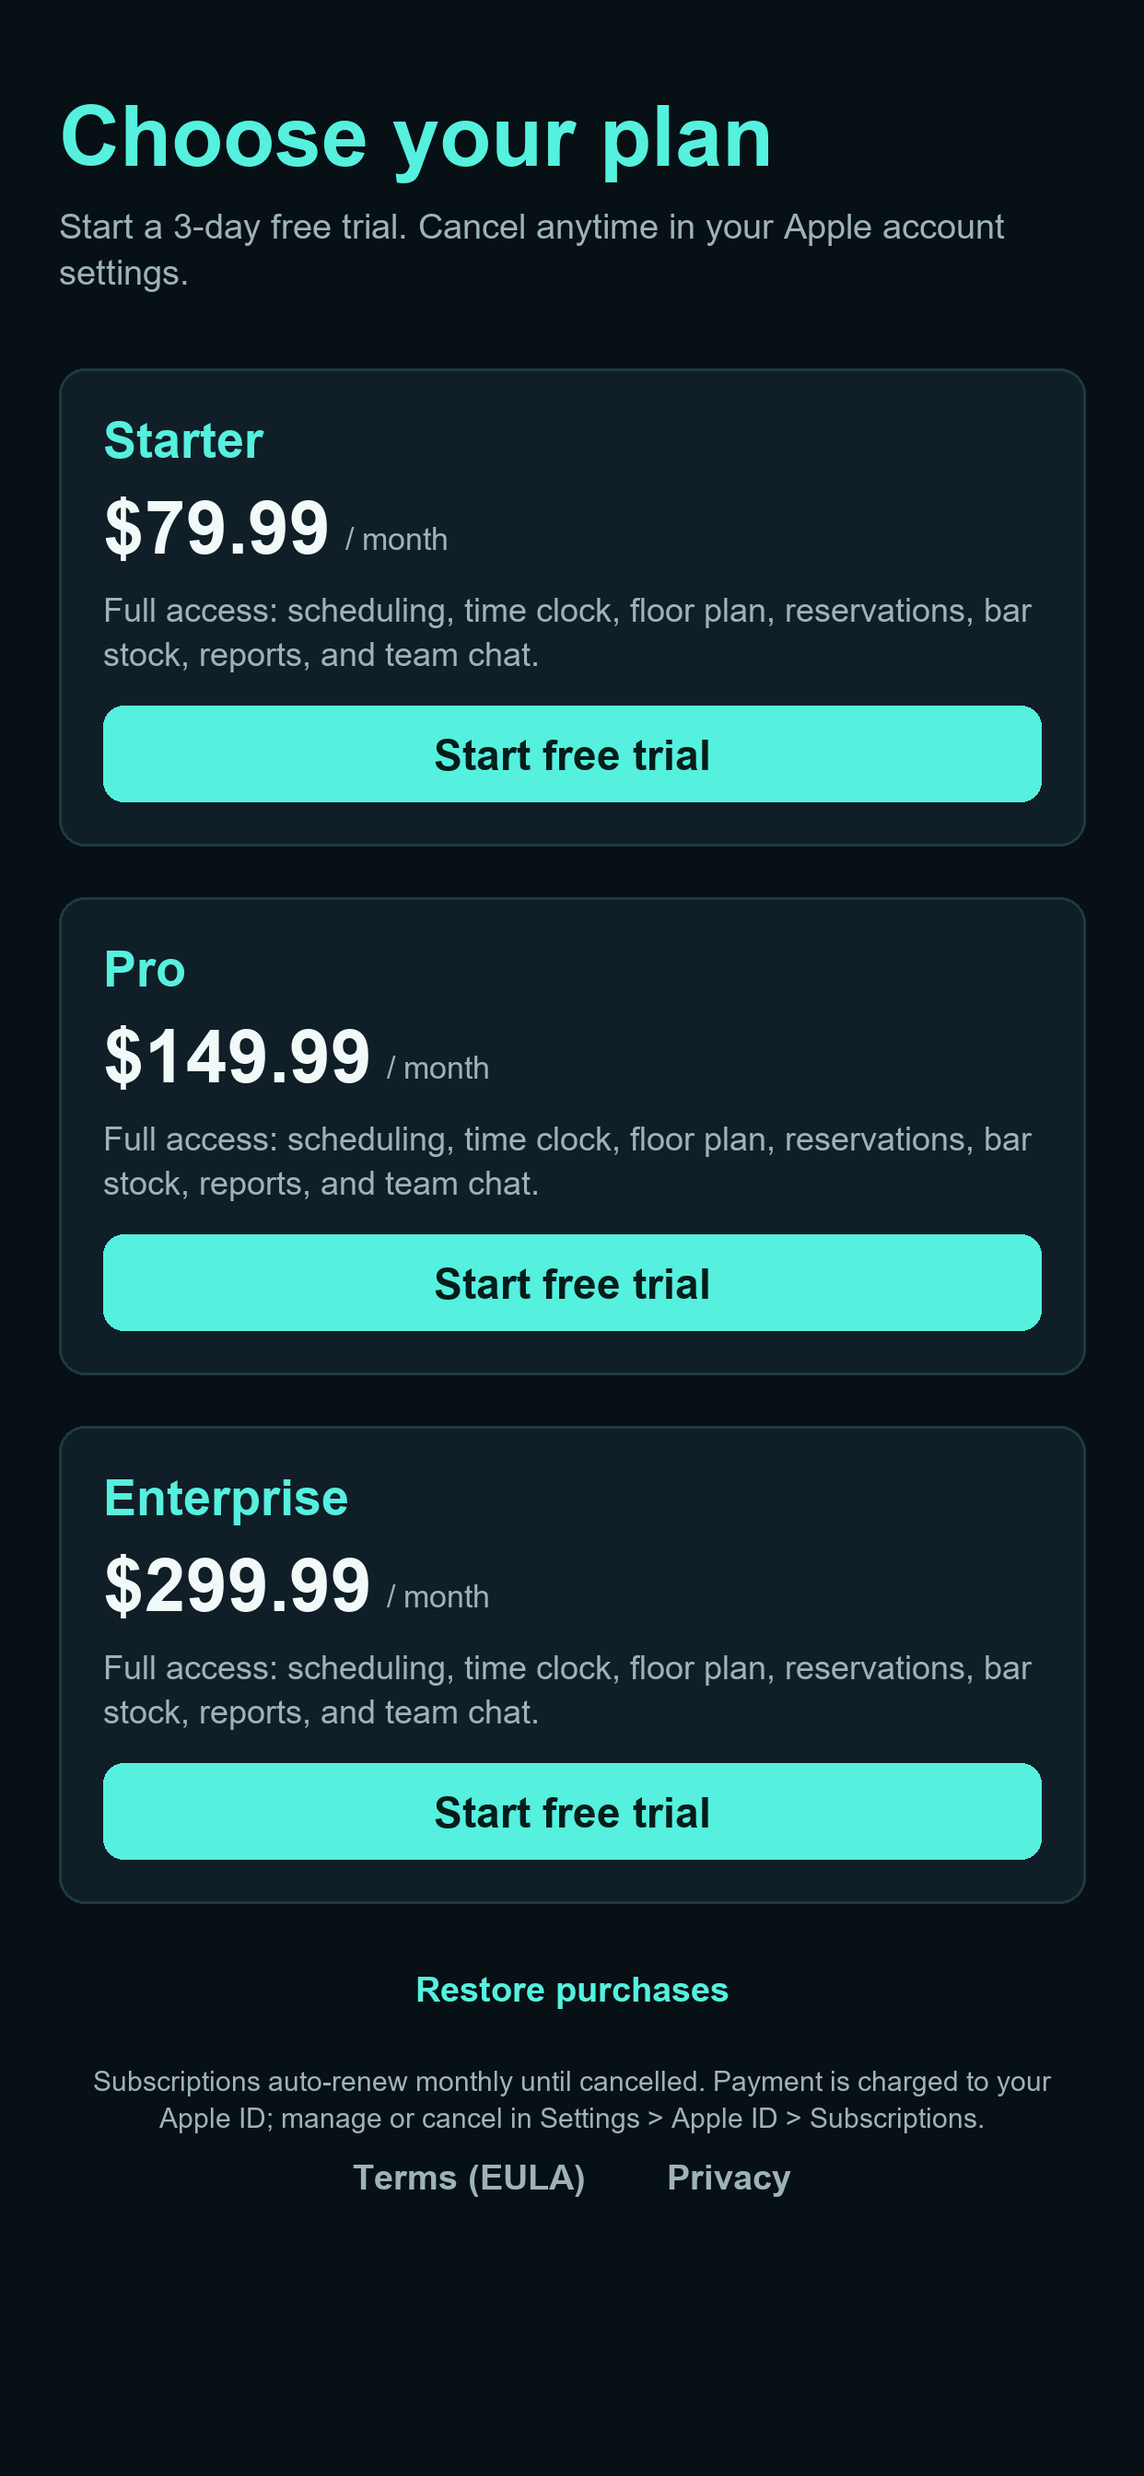
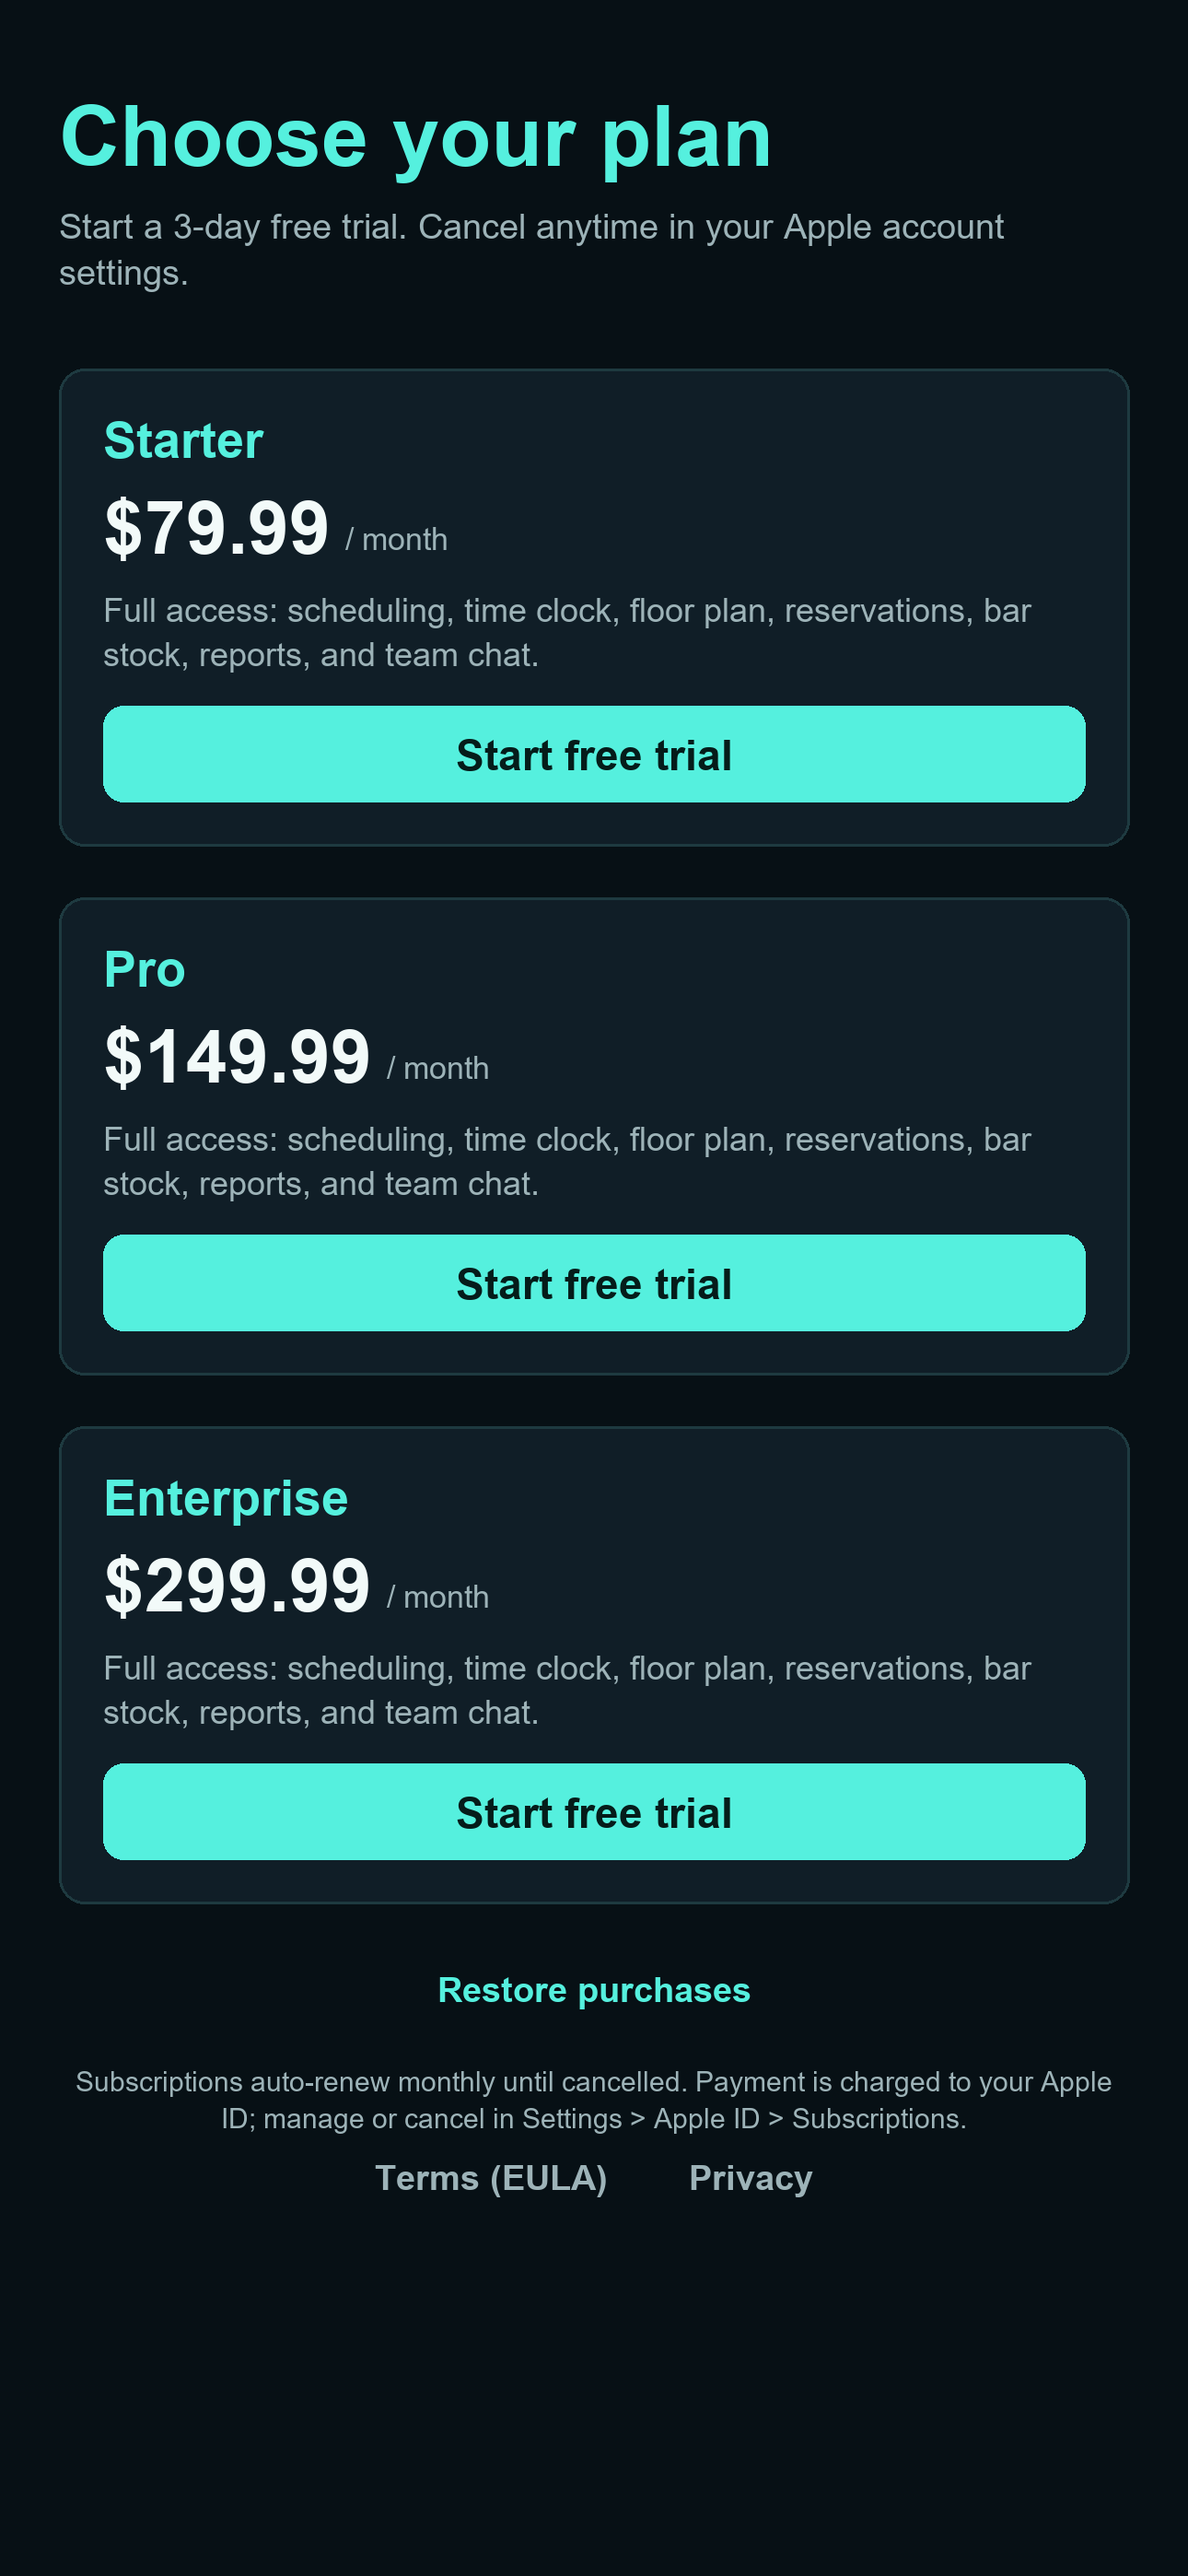
Review screenshot: 1290x2796 RGB no-alpha (Apple 2026 spec)
Apple's current validator requires a recognized device resolution, RGB
color space, and no alpha channel. Regenerated at iPhone 6.7" (1290x2796)
as clean RGB with no alpha/ICC profile so ASC accepts the upload.

diff --git a/scripts/make-review-screenshot.py b/scripts/make-review-screenshot.py
@@ -9,7 +9,7 @@ entitlement unlocks the whole app.
 from PIL import Image, ImageDraw, ImageFont
 import os
 
-W, H = 1242, 2688  # iPhone 6.5" — accepted IAP review screenshot size
+W, H = 1290, 2796  # iPhone 6.7" — current accepted App Store screenshot size
 
 # dark palette (lib/theme.ts designPalettes.dark)
 BG = (7, 16, 21)
